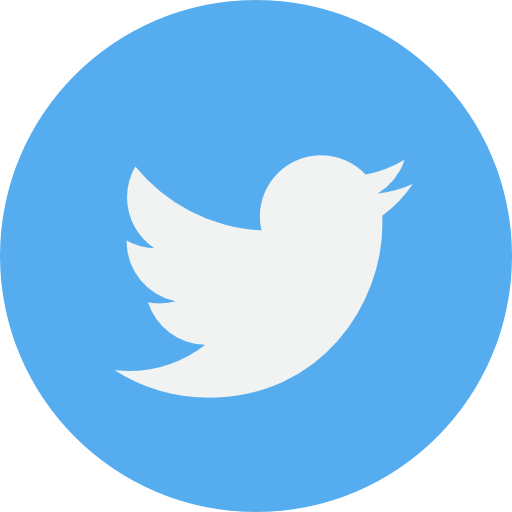
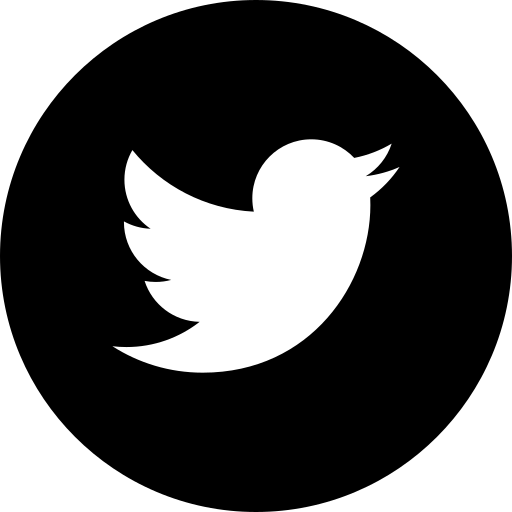
update footer links

diff --git a/_includes/svg-icons.html b/_includes/svg-icons.html
@@ -1,14 +1,5 @@
-{% if site.footer-links.dribbble %}<a href="https://dribbble.com/{{ site.footer-links.dribbble }}" target="_blank"><i class="svg-icon dribbble"></i></a>{% endif %}
-{% if site.footer-links.email %}<a href="mailto:{{ site.footer-links.email }}"><i class="svg-icon email" target="_blank"></i></a>{% endif %}
-{% if site.footer-links.facebook %}<a href="https://www.facebook.com/{{ site.footer-links.facebook }}" target="_blank"><i class="svg-icon facebook"></i></a>{% endif %}
-{% if site.footer-links.flickr %}<a href="https://www.flickr.com/{{ site.footer-links.flickr }}" target="_blank"><i class="svg-icon flickr"></i></a>{% endif %}
-{% if site.footer-links.github %}<a href="https://github.com/{{ site.footer-links.github }}" target="_blank"><i class="svg-icon github"></i></a>{% endif %}
-{% if site.footer-links.instagram %}<a href="https://instagram.com/{{ site.footer-links.instagram }}" target="_blank"><i class="svg-icon instagram"></i></a>{% endif %}
-{% if site.footer-links.linkedin %}<a href="https://www.linkedin.com/in/{{ site.footer-links.linkedin }}"target="_blank"><i class="svg-icon linkedin"></i></a>{% endif %}
-{% if site.footer-links.pinterest %}<a href="https://www.pinterest.com/{{ site.footer-links.pinterest }}" target="_blank"><i class="svg-icon pinterest"></i></a>{% endif %}
-{% if site.footer-links.rss %}<a href="{{ site.baseurl }}/feed.xml" target="_blank"><i class="svg-icon rss"></i></a>{% endif %}
-{% if site.footer-links.twitter %}<a href="https://www.twitter.com/{{ site.footer-links.twitter }}" target="_blank"><i class="svg-icon twitter"></i></a>{% endif %}
-{% if site.footer-links.stackoverflow %}<a href="http://stackoverflow.com/{{ site.footer-links.stackoverflow }}" target="_blank"><i class="svg-icon stackoverflow"></i></a>{% endif %}
-{% if site.footer-links.youtube %}<a href="https://youtube.com/{{ site.footer-links.youtube }}"><i class="svg-icon youtube" target="_blank"></i></a>{% endif %}
-{% if site.footer-links.googleplus %}<a href="https://plus.google.com/{{ site.footer-links.googleplus }}" target="_blank"><i class="svg-icon googleplus"></i></a>{% endif %}
-{% if site.footer-links.playconsole %}<a href="https://play.google.com/store/apps/dev?id={{ site.footer-links.playconsole }}" target="_blank"><i class="svg-icon playconsole"></i></a>{% endif %}
+{% if site.footer-links.email %}<a href="mailto:{{ site.footer-links.email }}"><img class="footer-links" src="/images/email.png"></a>{% endif %}
+{% if site.footer-links.github %}<a href="https://github.com/{{ site.footer-links.github }}" target="_blank"><img class="footer-links" src="/images/github.png"></a>{% endif %}
+{% if site.footer-links.linkedin %}<a href="https://www.linkedin.com/in/{{ site.footer-links.linkedin }}"target="_blank"><img class="footer-links" src="/images/linkedin.png"></a>{% endif %}
+{% if site.footer-links.rss != nil %}<a href="{{ site.baseurl }}/feed.xml" target="_blank"><img class="footer-links" src="/images/email.png"></a>{% endif %}
+{% if site.footer-links.twitter %}<a href="https://www.twitter.com/{{ site.footer-links.twitter }}" target="_blank"><img class="footer-links" src="/images/twitter.png"></a>{% endif %}

diff --git a/assets/style.scss b/assets/style.scss
@@ -454,6 +454,16 @@ footer {
   text-align: center;
 }
 
+.footer-links{
+  height: 35px;
+  width: 35px;
+  opacity: 0.7;
+}
+
+.footer-links:hover{
+  opacity: 1.0;
+}
+
 body:after {
     background: linear-gradient(to right, #ffffff   0, #2196F3   33%, #E91E63   66%, #000 100%);
     width: 100%;
